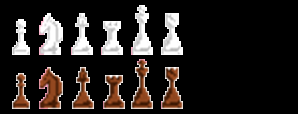
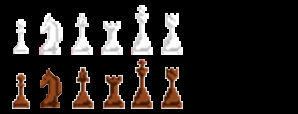
chess finished

diff --git a/chess.py b/chess.py
@@ -49,8 +49,8 @@ GAMEROWS = 8
 GRID_SIZE_X = 53
 GRID_SIZE_Y = 53
 TOP_LEFT = (15,15)
-PIECE_OFFSET_X = 4
-PIECE_OFFSET_Y = 6
+PIECE_OFFSET_X = 8
+PIECE_OFFSET_Y = -4
 
 RIGHT_MOUSE_BUTTON = 3
 
@@ -144,7 +144,7 @@ def TurnOffTimers():
 def LoadImages():
     global backImage,undoImage,undoGreyImage,muteImage,muteGreyImage
     global infoImage,infoGreyImage,player1PieceImage,player2PieceImage
-    global eyeImage,eyeGreyImage,restartImage,restartGreyImage,chessPiecesImage
+    global eyeImage,eyeGreyImage,restartImage,restartGreyImage,chessPiecesImage,pieces
  
     backImage = pygame.image.load(backImageName).convert()
 
@@ -174,8 +174,17 @@ def LoadImages():
     #Load the full chess pieces image...we will chop it up later.
     #chessPiecesImage = pygame.image.load(chessPiecesImageName).convert(
     chessPiecesImage = spritesheet(chessPiecesImageName)
-    
 
+    pieces = []
+    for i in range(6):
+        image = chessPiecesImage.image_at((5+i*30, 4, 30, 54),colorkey=(0, 0, 0))
+        pieces.append(image)
+    
+    for i in range(6):
+        image = chessPiecesImage.image_at((5+i*30, 59, 30, 54),colorkey=(0, 0, 0))
+        pieces.append(image)
+    
+    
 def HandleInput(running):
 
     for event in pygame.event.get():
@@ -263,10 +272,46 @@ def InfoButtonCallback():
 def PutPiecesInStartingPositions():
 
     theGameGrid.BlankTheGrid()
-        
-    #for i in range(8):
-    #    someGamePiece = Piece(player2PieceImage,surface,PLAYER2,False)
-    #    theGameGrid.SetGridItem((11,i),someGamePiece)
+
+    #brown pawns
+    for i in range(8):
+        someGamePiece = Piece(pieces[6],surface,PLAYER1,False)
+        theGameGrid.SetGridItem((i,1),someGamePiece)
+
+    #BROWN pieces
+    someGamePiece = Piece(pieces[7],surface,PLAYER2,False)
+    theGameGrid.SetGridItem((1,0),someGamePiece)
+    theGameGrid.SetGridItem((6,0),someGamePiece)
+    someGamePiece = Piece(pieces[8],surface,PLAYER2,False)
+    theGameGrid.SetGridItem((2,0),someGamePiece)
+    theGameGrid.SetGridItem((5,0),someGamePiece)
+    someGamePiece = Piece(pieces[9],surface,PLAYER2,False)
+    theGameGrid.SetGridItem((0,0),someGamePiece)
+    theGameGrid.SetGridItem((7,0),someGamePiece)
+    someGamePiece = Piece(pieces[10],surface,PLAYER2,False)
+    theGameGrid.SetGridItem((4,0),someGamePiece)
+    someGamePiece = Piece(pieces[11],surface,PLAYER2,False)
+    theGameGrid.SetGridItem((3,0),someGamePiece)
+    
+    #white pawns
+    for i in range(8):
+        someGamePiece = Piece(pieces[0],surface,PLAYER2,False)
+        theGameGrid.SetGridItem((i,6),someGamePiece)
+
+    #white pieces
+    someGamePiece = Piece(pieces[1],surface,PLAYER2,False)
+    theGameGrid.SetGridItem((1,7),someGamePiece)
+    theGameGrid.SetGridItem((6,7),someGamePiece)
+    someGamePiece = Piece(pieces[2],surface,PLAYER2,False)
+    theGameGrid.SetGridItem((2,7),someGamePiece)
+    theGameGrid.SetGridItem((5,7),someGamePiece)
+    someGamePiece = Piece(pieces[3],surface,PLAYER2,False)
+    theGameGrid.SetGridItem((0,7),someGamePiece)
+    theGameGrid.SetGridItem((7,7),someGamePiece)
+    someGamePiece = Piece(pieces[4],surface,PLAYER2,False)
+    theGameGrid.SetGridItem((4,7),someGamePiece)
+    someGamePiece = Piece(pieces[5],surface,PLAYER2,False)
+    theGameGrid.SetGridItem((3,7),someGamePiece)
         
 ##############################################################################
 # MAIN
@@ -311,12 +356,6 @@ while running:
     ##Draw all pieces that are on the board.
     currentMousePos = pygame.mouse.get_pos()
     theGameGrid.DrawSelf(currentMousePos)
-
-    for i in range(6):
-        image = chessPiecesImage.image_at((5+i*30, 4, 30, 54),colorkey=(0, 0, 0))
-        surface.blit(image, (25+i*GRID_SIZE_X,15))
-        image = chessPiecesImage.image_at((5+i*30, 59, 30, 54),colorkey=(0, 0, 0))
-        surface.blit(image, (25+i*GRID_SIZE_X,15+GRID_SIZE_Y))
        
     if(running):
         gameTimeSurface = my_font.render("Time elapsed : {}".format(gameTime), False, (0, 0, 0))

diff --git a/UsefulClasses.py b/UsefulClasses.py
@@ -219,7 +219,7 @@ class MyGameGrid():
 
         #If there is a dragged piece then draw it at the current mouse pos
         if(self._pieceBeingDragged != None):
-            posToDraw = (currentMousePos[0]-5*self._pieceOffsetX,currentMousePos[1]-3*self._pieceOffsetY)
+            posToDraw = (currentMousePos[0]-self._cellSizeX//4,currentMousePos[1]-self._cellSizeY//2)
             self._pieceBeingDragged.DrawSelf(posToDraw)
 
     def DebugPrintSelf(self):
